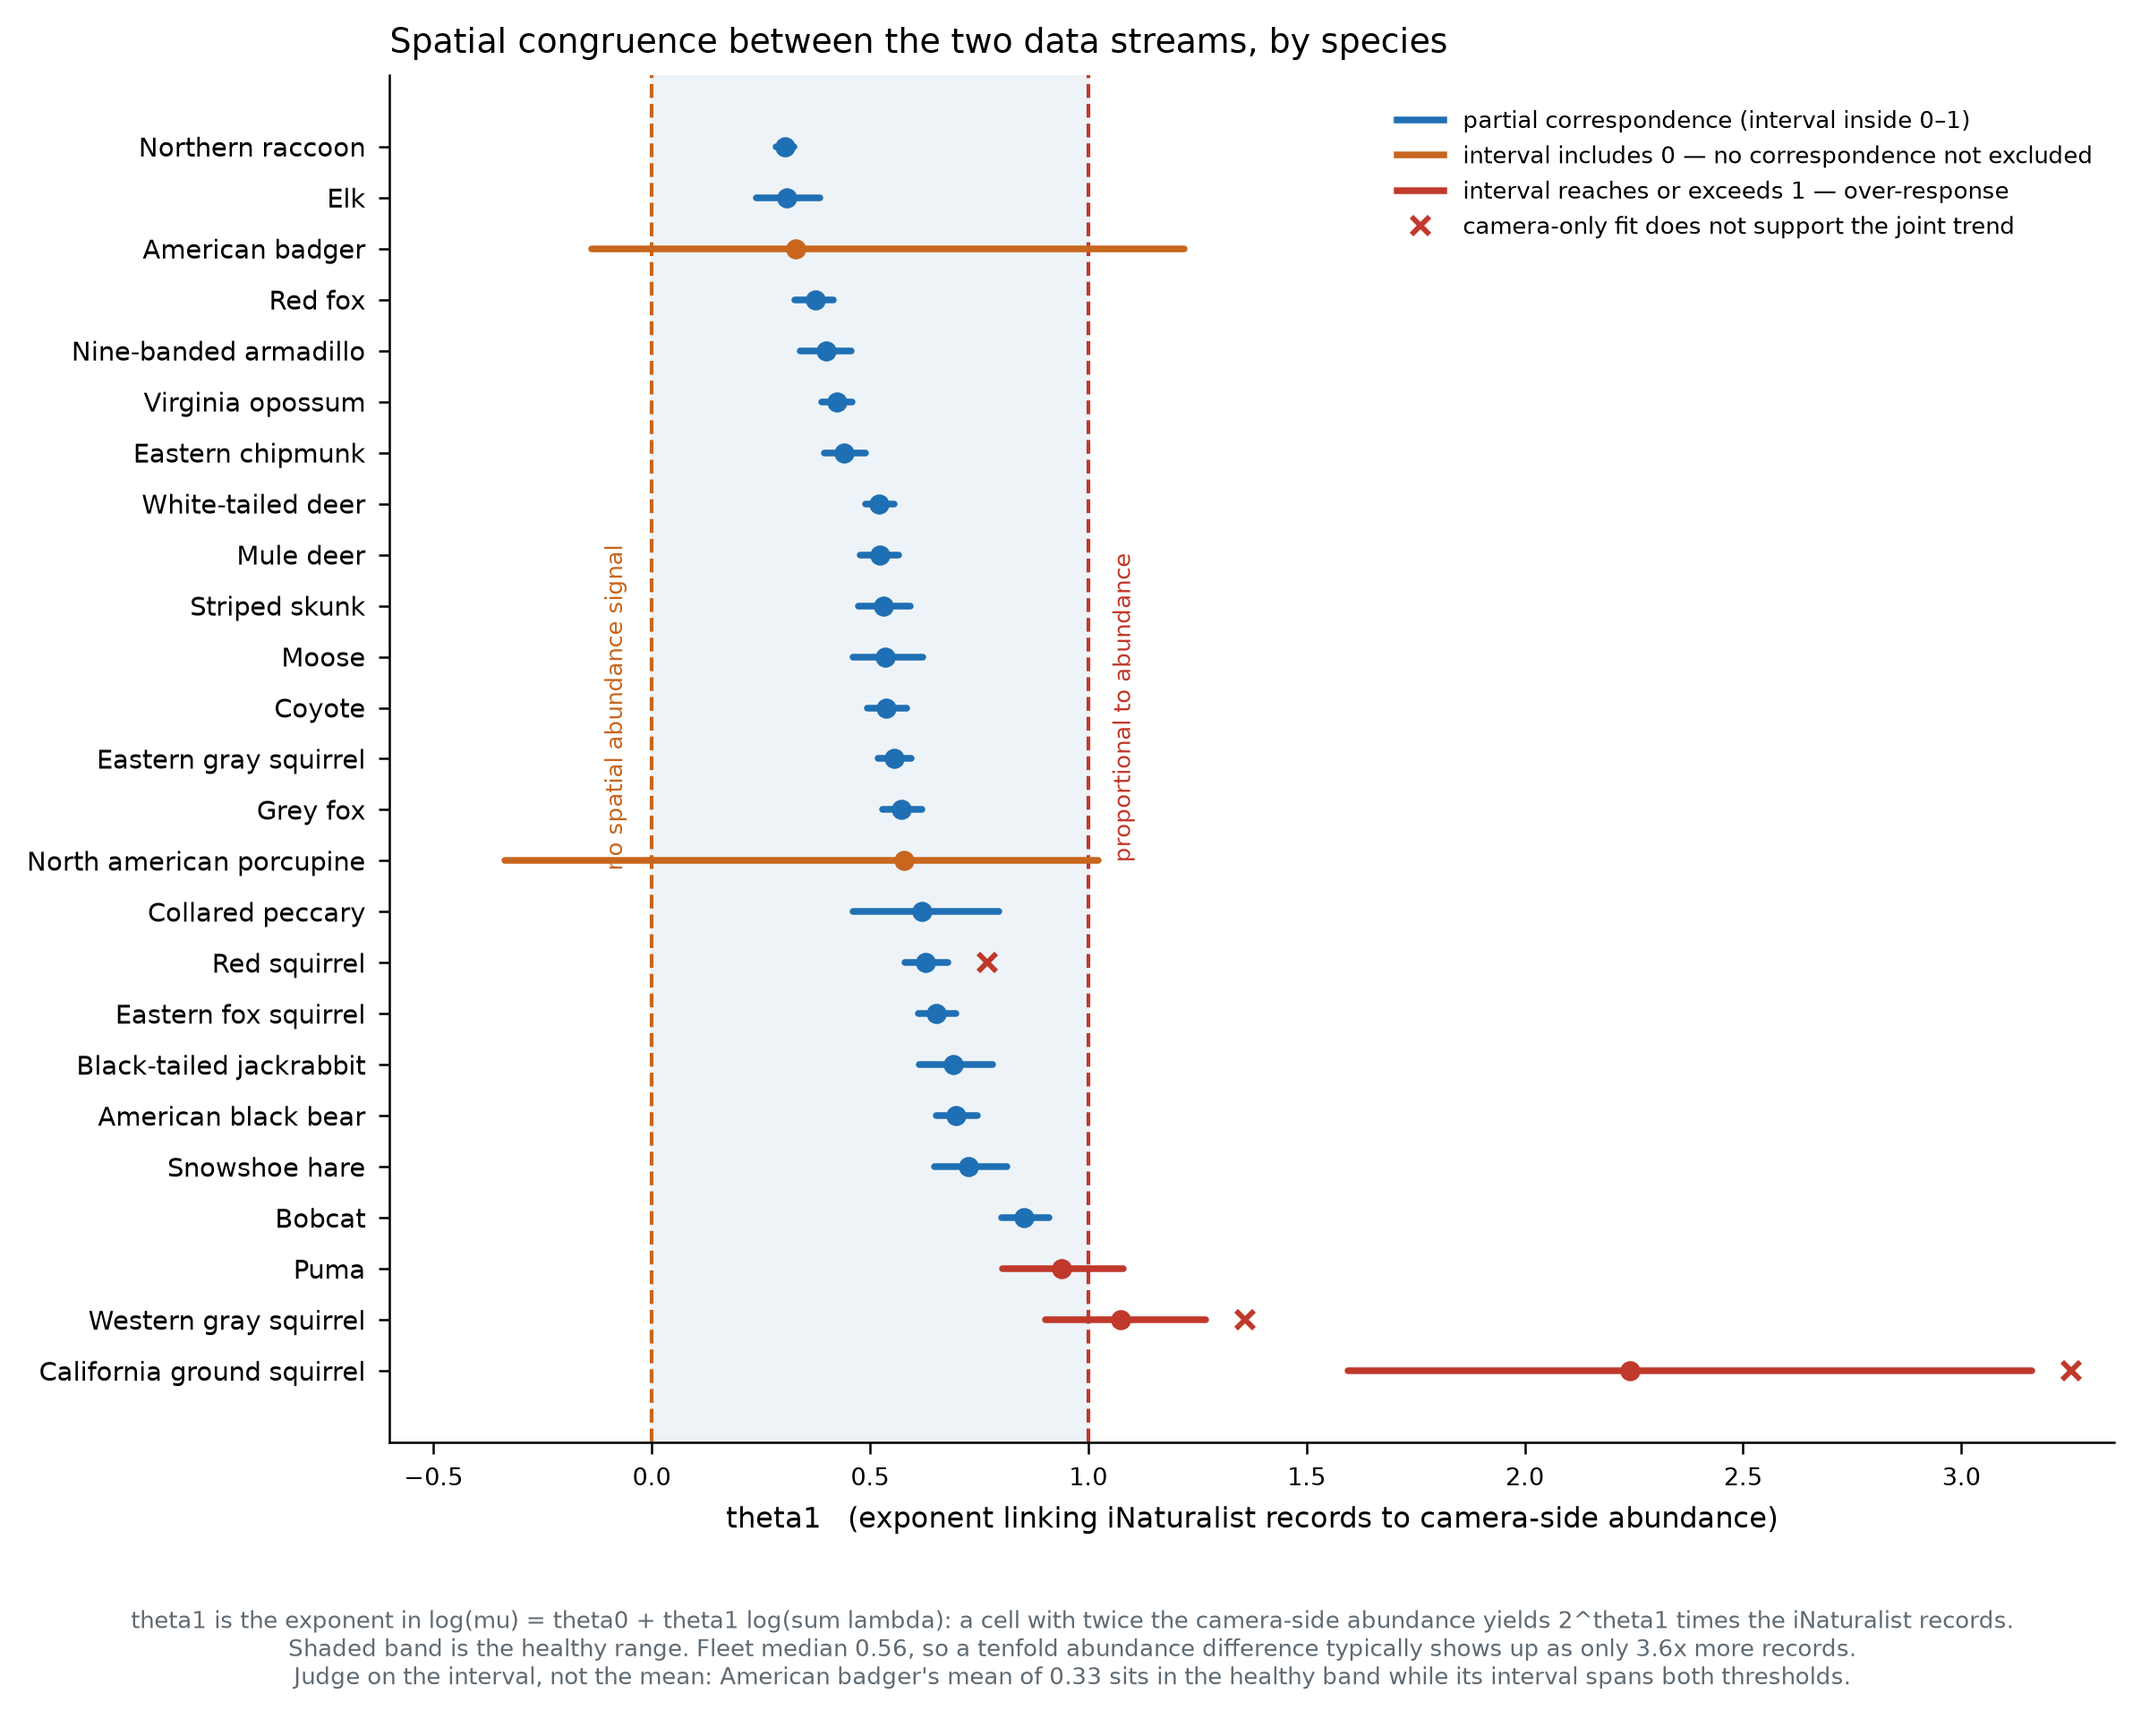
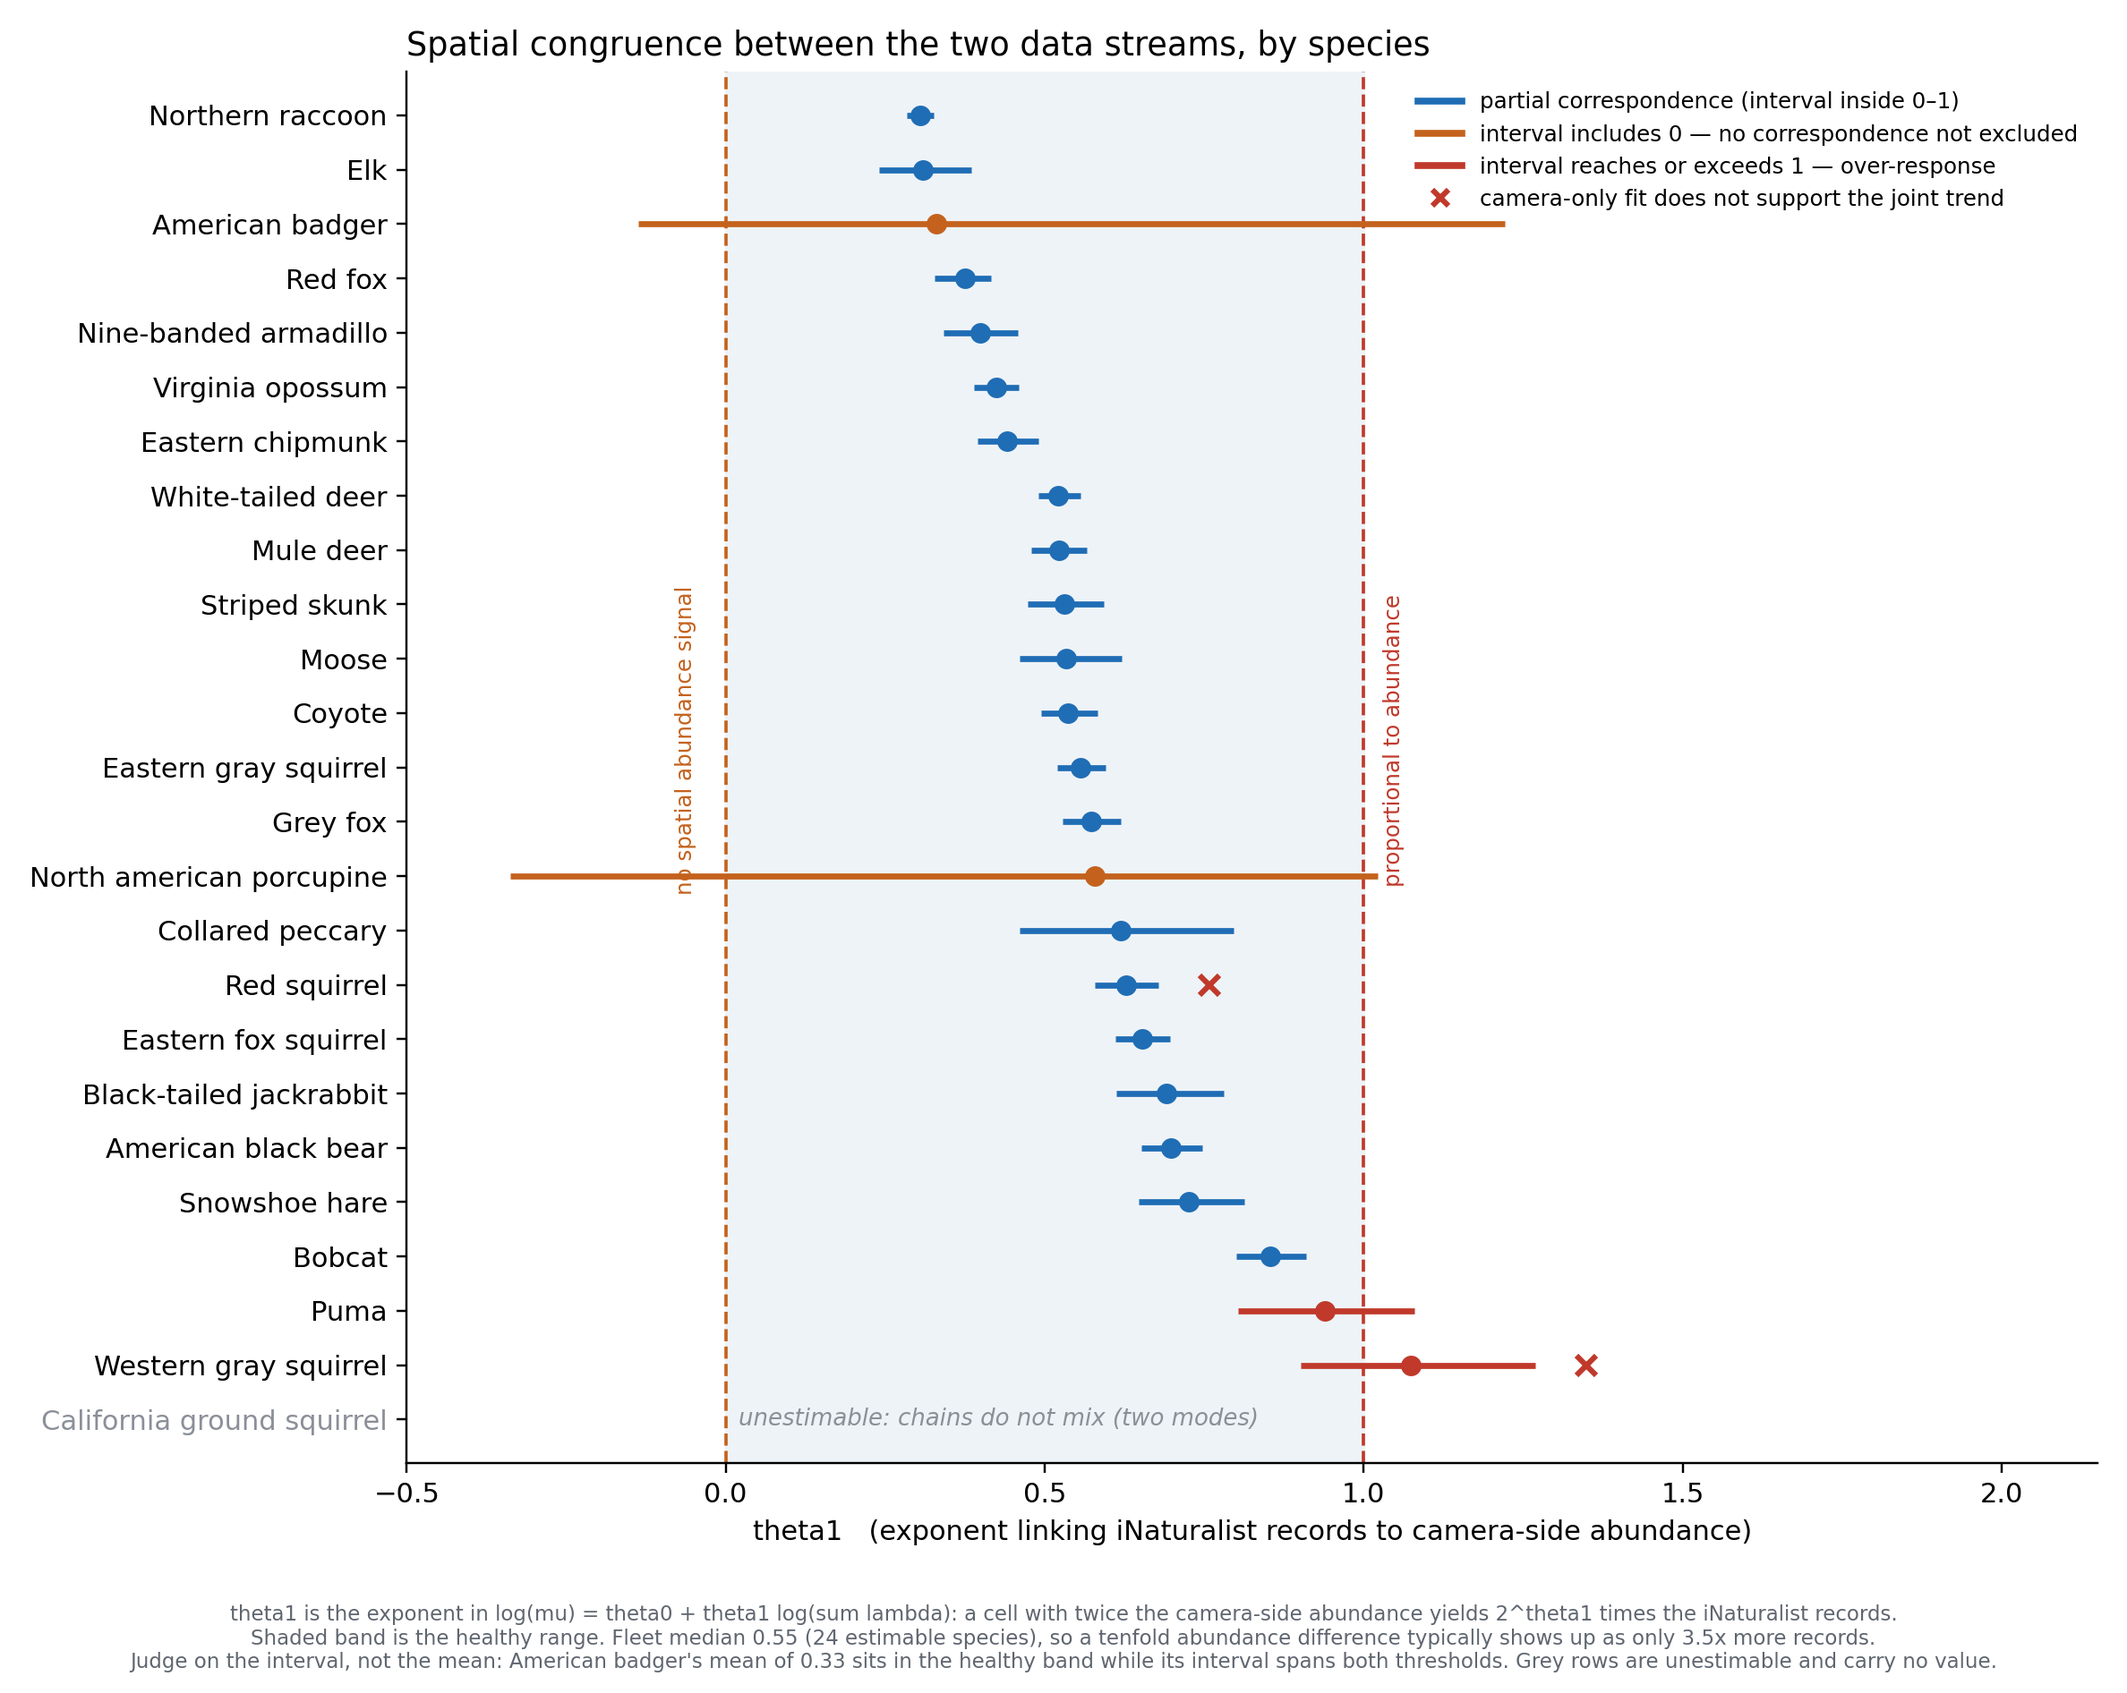
Flag California ground squirrel theta1 as unestimable in congruence table and figure
Published 2.24 [1.60, 3.16] and the centred refit's -0.01 [-3.88, 2.01] both come
from non-mixing chains (refit chain 2 in a second mode, R-hat 1.68, ESS 5). Row
keeps its values for provenance with estimable=False and a note; the figure draws
it as a grey unestimable label. Adds the script that draws the figure (the
original was never saved). Fleet median now 0.55 over 24 species.

diff --git a/make_fig_theta1_congruence.py b/make_fig_theta1_congruence.py
@@ -1,0 +1,69 @@
+#!/usr/bin/env python3
+"""Redraw fig_theta1_congruence_fleet.png from table_theta1_congruence.csv (2026-11-15).
+
+Rows with estimable == False are drawn as a grey text label with no point or interval: their
+chains do not mix, so no single theta1 value describes the posterior (Roland, 11/15: California
+ground squirrel's published 2.24 [1.60, 3.16] and the centred refit's -0.01 [-3.88, 2.01] both come
+from non-mixing chains). The original figure was made by a script that was never saved; this one
+reproduces its layout.
+"""
+import csv, statistics
+from pathlib import Path
+import matplotlib
+matplotlib.use("Agg")
+import matplotlib.pyplot as plt
+from matplotlib.lines import Line2D
+
+HERE = Path(__file__).resolve().parent
+rows = list(csv.DictReader(open(HERE / "table_theta1_congruence.csv")))
+BLUE, ORANGE, RED, GREY = "#1f6db5", "#c4621d", "#c0392b", "#8a8f98"
+
+fig, ax = plt.subplots(figsize=(10.8, 8.6), dpi=220)
+ax.axvspan(0, 1, color="#eef3f7", zorder=0)
+ax.axvline(0, color=ORANGE, ls="--", lw=1.2)
+ax.axvline(1, color=RED, ls="--", lw=1.2)
+n = len(rows)
+for i, r in enumerate(rows):
+    y = n - 1 - i
+    if r["estimable"] != "True":
+        ax.text(0.02, y, "unestimable: chains do not mix (two modes)", color=GREY, va="center",
+                ha="left", fontsize=8.5, style="italic")
+        continue
+    t, lo, hi = float(r["theta1"]), float(r["theta1_lo"]), float(r["theta1_hi"])
+    c = ORANGE if r["ci_includes_0"] == "True" else (RED if r["theta1_ci_reaches_1"] == "True" else BLUE)
+    ax.plot([lo, hi], [y, y], color=c, lw=2.2, solid_capstyle="butt")
+    ax.plot(t, y, "o", color=c, ms=6.5)
+    if r["camonly_supports"].startswith("NOT supported"):
+        ax.plot(hi + 0.08, y, "x", color=RED, ms=7, mew=2)
+ax.set_yticks(range(n))
+ax.set_yticklabels([r["species"] for r in reversed(rows)])
+for lab, r in zip(ax.get_yticklabels(), reversed(rows)):
+    if r["estimable"] != "True":
+        lab.set_color(GREY)
+ax.set_ylim(-0.8, n - 0.2)
+ax.set_xlim(-0.5, 2.15)
+ax.set_xlabel("theta1   (exponent linking iNaturalist records to camera-side abundance)")
+ax.set_title("Spatial congruence between the two data streams, by species", loc="left")
+ax.text(-0.08, n * 0.5, "no spatial abundance signal", rotation=90, color=ORANGE, fontsize=8, va="center")
+ax.text(1.03, n * 0.5, "proportional to abundance", rotation=90, color=RED, fontsize=8, va="center")
+for s in ("top", "right"):
+    ax.spines[s].set_visible(False)
+ax.legend(handles=[
+    Line2D([], [], color=BLUE, lw=2.5, label="partial correspondence (interval inside 0–1)"),
+    Line2D([], [], color=ORANGE, lw=2.5, label="interval includes 0 — no correspondence not excluded"),
+    Line2D([], [], color=RED, lw=2.5, label="interval reaches or exceeds 1 — over-response"),
+    Line2D([], [], color=RED, marker="x", ls="", mew=2, label="camera-only fit does not support the joint trend"),
+], loc="upper right", frameon=False, fontsize=8)
+est = [float(r["theta1"]) for r in rows if r["estimable"] == "True"]
+med = statistics.median(est)
+fig.text(0.5, 0.012,
+         "theta1 is the exponent in log(mu) = theta0 + theta1 log(sum lambda): a cell with twice the camera-side "
+         "abundance yields 2^theta1 times the iNaturalist records.\n"
+         f"Shaded band is the healthy range. Fleet median {med:.2f} ({len(est)} estimable species), so a tenfold "
+         f"abundance difference typically shows up as only {10**med:.1f}x more records.\n"
+         "Judge on the interval, not the mean: American badger's mean of 0.33 sits in the healthy band while its "
+         "interval spans both thresholds. Grey rows are unestimable and carry no value.",
+         ha="center", va="bottom", fontsize=7.5, color="#5f6670")
+fig.tight_layout(rect=(0, 0.07, 1, 1))
+fig.savefig(HERE / "fig_theta1_congruence_fleet.png")
+print("median", round(med, 3), "n", len(est))
